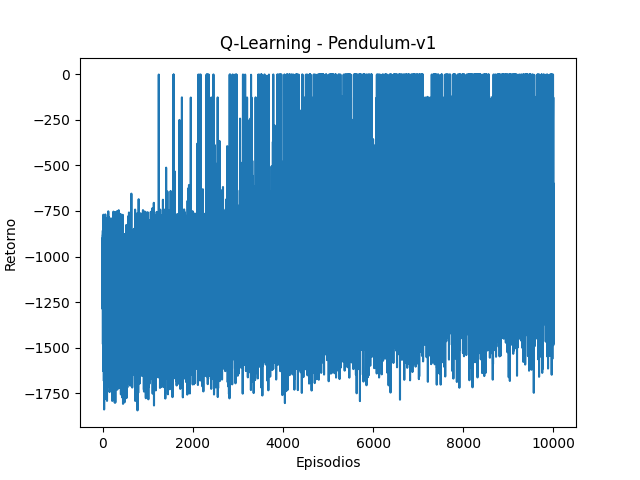
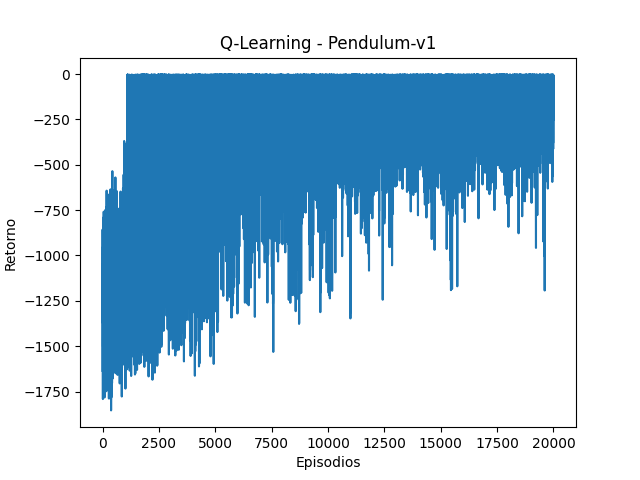
qlearning

diff --git a/q-learning.py b/q-learning.py
@@ -8,28 +8,30 @@ import os
 # ===========================================================
 # CONFIGURACIÓN
 # ===========================================================
-
 ENV_NAME = 'Pendulum-v1'
 RENDER = False
 PERTURBACIONES = False
-PERTURB_PROB = 0.05
-PERTURB_VALS = [-2.0, 2.0]
+PERTURB_PROB = 0.05 #Pedida por el enunciado
+PERTURB_VALS = [-2.0, 2.0]  #Pedidos por el enunciado
 
 N_ANGLE_BINS = 30 #
-N_VELOCITY_BINS = 30 #
-N_ACTIONS = 17
+N_VELOCITY_BINS = 15 #
+N_ACTIONS = 11
+
 
 ANGLE_MIN, ANGLE_MAX = -np.pi, np.pi
 VEL_MIN, VEL_MAX = -8.0, 8.0
 ACTION_MIN, ACTION_MAX = -2.0, 2.0
 
-NUM_EPISODES = 10000
+NUM_EPISODES = 20000
 MAX_STEPS = 200
 GAMMA = 0.95
 EPSILON_START = 1.0
-EPSILON_END = 0.05
-EPSILON_DECAY = 0.995 #
-ALPHA = 0.05 # 
+EPSILON_DECAY = 0.995
+EPSILON_END = 0.01
+ALPHA = 0.1
+
+
 
 angle_bins = np.linspace(ANGLE_MIN, ANGLE_MAX, N_ANGLE_BINS + 1)
 vel_bins = np.linspace(VEL_MIN, VEL_MAX, N_VELOCITY_BINS + 1)
@@ -169,10 +171,6 @@ plt.savefig('resultados/grafico_qlearning.png')
 plt.close()
 
 # Evaluar
-media, std = evaluar_politica(policy_det)
-print(f"\nEvaluación política final: Retorno medio = {media:.2f}, Std = {std:.2f}")
-
-# Evaluar rendimiento promedio
 media, std = evaluar_politica(policy_det)
 print(f"\nEvaluación política final: Retorno medio = {media:.2f}, Std = {std:.2f}")
 

diff --git a/testeo_hiperparámetros.py b/testeo_hiperparámetros.py
@@ -10,18 +10,18 @@ import pandas as pd
 
 ENV_NAME = 'Pendulum-v1'
 MAX_STEPS = 200
-N_EPISODIOS = 1000
+N_EPISODIOS = 10000
 EVAL_EPISODIOS = 10
 GAMMA = 0.95
 EPSILON_START = 1.0
-EPSILON_END = 0.05
+EPSILON_END = 0.01
 
 # Grilla de hiperparámetros
-ANGLE_BINS_LIST = [20, 24, 30]
-VELOCITY_BINS_LIST = [15, 20, 30]
-ACTIONS_LIST = [17, 21, 25]
-ALPHAS = [0.05, 0.1, 0.2]
-DECAYS = [0.995, 0.997, 0.999]
+ANGLE_BINS_LIST = [15, 30, 40]
+VELOCITY_BINS_LIST = [15, 30, 40]
+ACTIONS_LIST = [11, 17]
+ALPHAS = [0.05, 0.1]
+DECAYS = [0.995, 0.999]
 
 # Espacio de acciones continuas
 ACTION_MIN, ACTION_MAX = -2.0, 2.0
